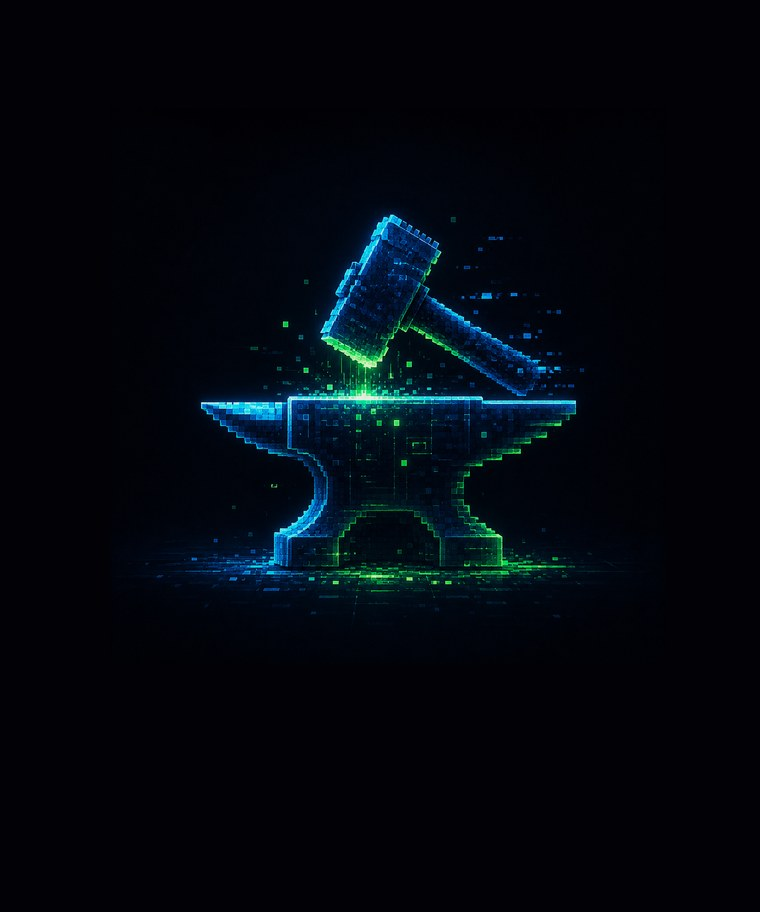
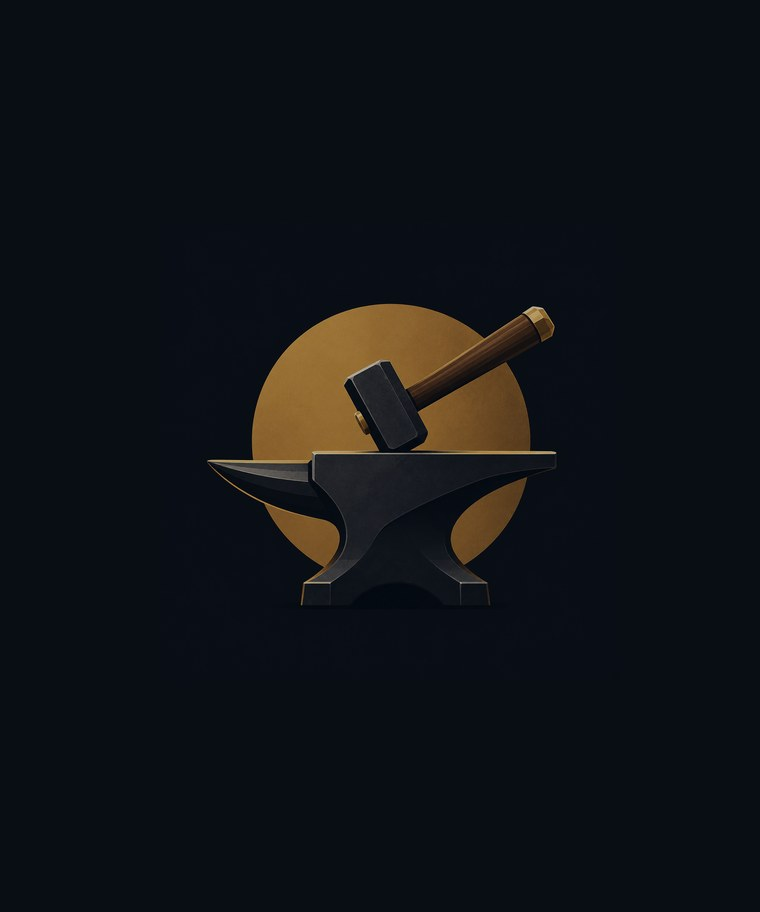
The projects door gets the gold-disc anvil
Replaces the voxel anvil. Prepared with --fit-subject 0.66 and --scale 0.72,
and the resting exposure moves with it: --scene-rest goes 1.15 -> .75.

That is a big move and the reasoning is the useful part. The voxel art was
~86% pure black with one thin bright subject, so dimming it at all erased it
and it needed a value ABOVE 1. This art is the opposite -- only 6% near-black,
with a large gold disc carrying real mass at mid-brightness -- so the same
1.15 would push the disc through the veil as a bright slab and the door would
stop reading as shadowed. Same door, opposite correction.

Tuned on the p95 rather than the median, since the median here is the dark
ground and says nothing about what the eye finds. Measured across the visible
window at each door's own resting exposure:

  projects  p95 65   (p50 10.8 -- the anvil silhouette is dark on purpose)
  fiction   p95 67
  blog      p95 77

Also fixes a framing rule learned on both candidates: --fit-subject 0.80 is
too generous. The subject box is the span holding 92% of the image's light, so
the outer 8% falls outside it, and at 0.80 the hover crop clipped the hammer
on both. 0.66 is about the ceiling.

Changed region(s): [[0.2421, 0.2149, 0.7566, 0.6754]]

diff --git a/public/assets/css/site.css b/public/assets/css/site.css
@@ -208,10 +208,14 @@ body.hall-page{
    skyline solid black. These land all three at a median around 25 and a p90
    around 37 behind the veil -- present, and still firmly in shadow. Re-derive
    them if the art changes; `tools/prep-scene.py` prints the percentiles. */
-/* The anvil art is ~90% pure black with one bright subject, so its
-   median says nothing about how visible it is -- tune on the subject.
-   Well above 1 because there is so little lit area to dim. */
-.portal[data-portal="projects"]{ --scene-rest:1.15 }
+/* The anvil sits on a large gold disc, so unlike the other two it has real
+   mass at mid-brightness -- only 6% of it is near-black, against 86% for the
+   voxel version this replaced. That version needed 1.15, because it was one
+   thin bright subject on black and dimming it at all erased it. This one is
+   the opposite problem: left at 1.15 the disc glows through the veil as a
+   bright slab and the door stops reading as shadowed. Tuned so the disc lands
+   near the p95 the other two doors sit at. */
+.portal[data-portal="projects"]{ --scene-rest:.75 }
 .portal[data-portal="fiction"] { --scene-rest:.36 }
 .portal[data-portal="blog"]    { --scene-bleed:-3%; --scene-zoom:1.06; --scene-rest:.46 }
 

diff --git a/tools/door-preview.py b/tools/door-preview.py
@@ -1,36 +1,82 @@
 """Crop a candidate to what the projects door actually reveals.
 
-    python tools/door-preview.py art-source/whatever.png
+    python tools/door-preview.py art-source/whatever.png [--rest 1.15]
 
-Writes `whatever__doorview.png`: the resting view beside the hover view.
+Writes `whatever__doorview.png`: the resting view beside the hover view, each
+with the door's own exposure applied.
 
-This exists because judging door art from the full image is misleading. A
-door shows about 82% of the height at rest and **56% of the height by 50% of
-the width** once the hover zoom runs, centred on 46% of the height rather
-than the middle. Compositions that look fine flat lose their outer third
-exactly when someone looks at them -- which is how the first two carousel
-attempts got through review and failed here.
+Two reasons this exists rather than eyeballing the full image.
+
+**Framing.** A door shows about 82% of the height at rest and 56% of the
+height by 50% of the width once the hover zoom runs, centred on 46% of the
+height rather than the middle. Compositions that look fine flat lose their
+outer third exactly when someone looks at them.
+
+**Exposure.** site.css puts the resting scene through
+`brightness(var(--scene-rest)) saturate(.45) contrast(.92) blur(1.4px)` under
+a dark veil, and the lit state through `brightness(1.22)`. A picture judged at
+100% tells you very little about either. --rest takes the per-door
+`--scene-rest` value; the projects door is currently 1.15.
 """
-import sys, os
-from PIL import Image
+import argparse
+import os
+
+from PIL import Image, ImageEnhance, ImageFilter
+
 BLEED, ZOOM, ASPECT = 1.22, 1.46, 0.741
 W, H = 760, 912
 
-def window(im, bleed, zoom):
-    vh = 1.0 / (bleed * zoom)
+
+def window(im, zoom):
+    vh = 1.0 / (BLEED * zoom)
     vw = vh * (ASPECT / (W / H))
     w, h = im.size
     cw, ch = w * vw, h * vh
-    x, y = (w - cw) / 2, h * 0.46 - ch / 2
-    y = max(0, min(h - ch, y))
+    x = (w - cw) / 2
+    y = max(0, min(h - ch, h * 0.46 - ch / 2))
     return im.crop((int(x), int(y), int(x + cw), int(y + ch)))
 
-src = sys.argv[1]
-im = Image.open(src).convert("RGB")
-rest = window(im, BLEED, 1.0)
-hover = window(im, BLEED, ZOOM)
-out = Image.new("RGB", (rest.width + hover.width + 30, max(rest.height, hover.height)), (24, 20, 16))
-out.paste(rest, (0, 0)); out.paste(hover, (rest.width + 30, 0))
-p = os.path.splitext(src)[0] + "__doorview.png"
-out.save(p)
-print("rest %dx%d  hover %dx%d -> %s" % (rest.width, rest.height, hover.width, hover.height, os.path.basename(p)))
+
+def resting(im, rest):
+    """What site.css does to a scene at rest, veil included."""
+    im = ImageEnhance.Brightness(im).enhance(rest)
+    im = ImageEnhance.Color(im).enhance(0.45)
+    im = ImageEnhance.Contrast(im).enhance(0.92)
+    im = im.filter(ImageFilter.GaussianBlur(1.4 * im.width / W))
+    # The veil: a mouth that opens in the middle and closes at the walls.
+    veil = Image.new("L", im.size, 0)
+    px = veil.load()
+    for x in range(im.width):
+        t = abs(x / im.width - 0.5) * 2
+        for y in range(0, im.height, 4):
+            v = int(150 * (t ** 1.6) + 60 * abs(y / im.height - 0.42))
+            for yy in range(y, min(y + 4, im.height)):
+                px[x, yy] = min(255, v)
+    return Image.composite(Image.new("RGB", im.size, (8, 7, 6)), im, veil)
+
+
+def main():
+    ap = argparse.ArgumentParser()
+    ap.add_argument("src")
+    ap.add_argument("--rest", type=float, default=1.15,
+                    help="the door's --scene-rest value")
+    a = ap.parse_args()
+
+    im = Image.open(a.src).convert("RGB")
+    rest = resting(window(im, 1.0), a.rest)
+    hover = ImageEnhance.Brightness(window(im, ZOOM)).enhance(1.22)
+
+    gap = 30
+    out = Image.new("RGB", (rest.width + hover.width + gap,
+                            max(rest.height, hover.height)), (24, 20, 16))
+    out.paste(rest, (0, 0))
+    out.paste(hover, (rest.width + gap, 0))
+    p = os.path.splitext(a.src)[0] + "__doorview.png"
+    out.save(p)
+    print("%-46s rest(x%.2f) %dx%d | hover %dx%d"
+          % (os.path.basename(p), a.rest, rest.width, rest.height,
+             hover.width, hover.height))
+
+
+if __name__ == "__main__":
+    main()

diff --git a/CLAUDE.md b/CLAUDE.md
@@ -58,6 +58,8 @@ tools/             make-fire.py (flames), make-wordmark.py (lettering),
                    make-dust.py (dust sprites),
                    trace-wizard.py (the wizard's clip polygon),
                    prep-scene.py (crop + tone a photo into a door scene),
+                   door-preview.py (show a candidate as the door reveals it),
+                   make-door-carousel.py (project cards -> door art candidates),
                    make-project-thumbs.py (dashboard chart -> card thumb),
                    check-links.mjs, check-docs.mjs (CI)
 wrangler.toml      Cloudflare config
@@ -184,14 +186,23 @@ and must sit *under* the flames or it mudddies them.
   crossfade is a single property.
 
   `--scene-rest` is **per-door** because the three pictures are nowhere near
-  each other in level. `1.15 / .36 / .46` (projects / fiction / blog). The
-  fiction corridor and the puzzle land near a median of 25 behind the veil;
-  the projects anvil is a different animal and is tuned differently on
-  purpose — it is ~90% pure black with one bright subject, so its median is
-  the background and says nothing about whether you can see it. Tune that
-  one on the SUBJECT (the p95 of the visible window), which is why its value
-  sits above 1: there is so little lit area that dimming it at all erases
-  it.
+  each other in level. `.75 / .36 / .46` (projects / fiction / blog). The
+  fiction corridor and the puzzle land near a median of 25 behind the veil.
+
+  **Tune the projects door on the p95, not the median.** Its art is a dark
+  anvil silhouetted against a gold disc, so the median (10.8 at rest) is the
+  background and says nothing about whether anything is visible; the disc is
+  what the eye finds. At `.75` that disc lands at a p95 of 65, against 67 for
+  the fiction corridor and 77 for the puzzle — in line with both.
+
+  The value moved a long way when the art changed, and the reason is worth
+  keeping. The voxel anvil this replaced was ~86% pure black with one thin
+  bright subject, and needed `1.15` — *above* 1, because there was so little
+  lit area that dimming it at all erased it. The current art has real mass at
+  mid-brightness (only 6% near-black), so the same 1.15 would push the disc
+  through the veil as a bright slab and the door would stop reading as
+  shadowed. Same door, opposite correction: check which kind of picture you
+  have before copying a number.
 - **How close a door stands to its scene is per-door**, via `--scene-bleed`
   (how much bigger `.scene` is than the opening) and `--scene-zoom` (the hover
   target). A door shows `1 / (bleed x zoom)` of the art's height and `0.741x`
@@ -1054,9 +1065,20 @@ is left:
   moves. Both project pages still mark themselves drafts.
 - **All three door scenes are now real art**, none generated:
   `scenes/fiction.jpg` is the SEER cover, `scenes/blog.jpg` the puzzle
-  photograph, `scenes/projects.jpg` the voxel anvil Ryan supplied
-  (2026-08-23). Replacement artwork wants to be 760×912 with the subject
-  centred, because the ring of fire eats the edges.
+  photograph, `scenes/projects.jpg` the anvil-on-a-gold-disc Ryan supplied
+  (2026-08-26, replacing the voxel anvil of 2026-08-23). Replacement artwork
+  wants to be 760×912 with the subject centred, because the ring of fire eats
+  the edges.
+
+  **Originals live in `art-source/`** and are committed, so a scene can be
+  re-derived rather than adjusted exactly once. `tools/door-preview.py` crops
+  any candidate to what the door actually reveals, at the resting and hover
+  exposures — judging door art from the full image is how two carousel
+  candidates got through review and failed at the crop.
+
+  On `--fit-subject`: **0.66 is about the ceiling, not 0.80.** The subject box
+  is the span holding 92% of the image's light, so the outer 8% sits outside
+  it; at 0.80 both anvil candidates had the hammer clipped on hover.
 
   **Two modes in `tools/prep-scene.py`, and picking the wrong one is the
   mistake to avoid.** `--focus x,y` crops INTO a picture: right for a scene

diff --git a/README.md b/README.md
@@ -226,8 +226,7 @@ fourteen real project cards. What is still standing in:
 - the project thumbnails (six generated images across fourteen cards) and the
   projects lede, which says in the page that it is a draft to prune
 - the forecasting page's intro and the projects lede still want Ryan's voice
-- one of the three door scenes: `scenes/projects.jpg` (the fiction door is the
-  real SEER art, and the blog door is Ryan's puzzle photograph)
+
 - the about-page copy — grounded and no longer self-labelled, but drafted for
   Ryan rather than by him
 - the newsletter form posts nowhere
